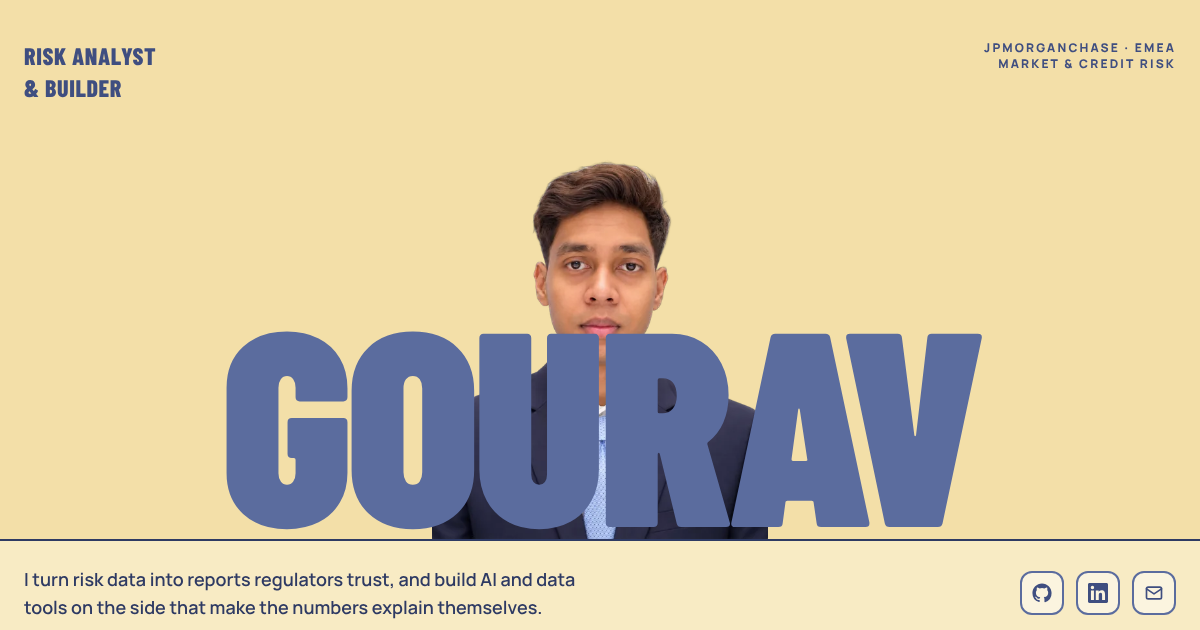
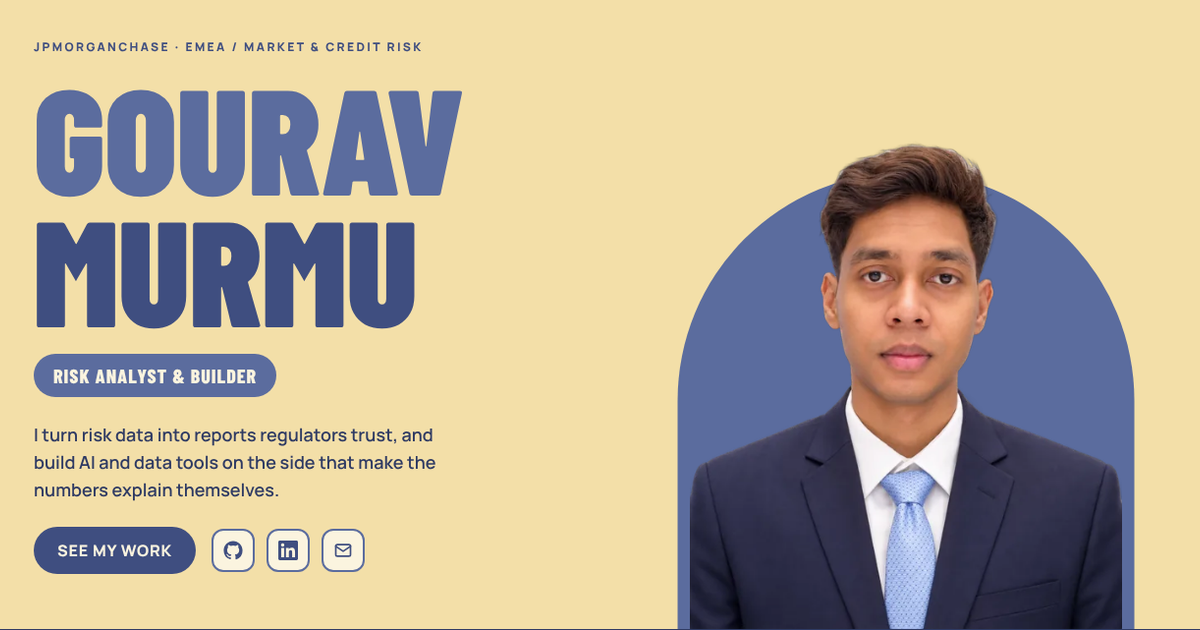
Redesign hero: name on the left, larger portrait on the right
The name no longer overlaps the portrait. Adds a See my work button
and regenerates the OG image from the new hero.

Claude-Session: https://claude.ai/code/session_013AXjLynCqWsVWZB5DGkGwg

diff --git a/components/Hero.tsx b/components/Hero.tsx
@@ -4,24 +4,33 @@ import Socials from "./Socials";
 export default function Hero() {
   return (
     <section id="top" className="relative overflow-hidden bg-cream">
-      <div className="mx-auto max-w-site px-4 pt-6 sm:px-6 md:pt-10">
-        <div className="flex flex-col justify-between gap-2 text-blue-deep sm:flex-row sm:items-start">
-          <p className="font-display text-xl font-extrabold uppercase leading-none tracking-wide sm:text-2xl">
-            Risk Analyst
-            <br />& Builder
+      <div className="mx-auto grid max-w-site items-end gap-6 px-4 pt-8 sm:px-6 md:grid-cols-[1.15fr_1fr] md:gap-4 md:pt-12">
+        <div className="pb-2 md:pb-14">
+          <p className="text-xs font-extrabold uppercase tracking-[0.2em] text-blue-deep">{site.employerLine}</p>
+          <h1 className="mt-4 font-display font-black uppercase leading-poster tracking-tight text-blue">
+            <span className="block text-[26vw] md:text-[11.5vw] xl:text-[9.5rem]">Gourav</span>
+            <span className="block text-[26vw] text-blue-deep md:text-[11.5vw] xl:text-[9.5rem]">Murmu</span>
+          </h1>
+          <p className="mt-5 inline-block rounded-full bg-blue px-5 py-2 font-display text-lg font-extrabold uppercase tracking-wider text-paper md:text-xl">
+            {site.role}
           </p>
-          <p className="text-xs font-extrabold uppercase tracking-[0.18em] sm:text-right">
-            JPMorganChase · EMEA
-            <br />
-            Market & Credit Risk
-          </p>
+          <p className="mt-6 max-w-md text-base font-semibold text-ink md:text-lg">{site.pitch}</p>
+          <div className="mt-6 flex flex-wrap items-center gap-4">
+            <a
+              href="#work"
+              className="rounded-full bg-blue-deep px-6 py-3 font-extrabold uppercase tracking-wider text-paper hover:bg-ink"
+            >
+              See my work
+            </a>
+            <Socials />
+          </div>
         </div>
 
-        <div className="relative flex justify-center pt-[30vw] sm:pt-[min(16vw,220px)]">
-          <h1 className="relative z-10 select-none text-center font-display text-[27vw] font-black sm:text-[23vw] uppercase leading-poster tracking-tight text-blue xl:text-[17rem]">
-            Gourav
-            <span className="sr-only"> Murmu, {site.role}</span>
-          </h1>
+        <div className="relative mx-auto flex w-full max-w-[460px] justify-center self-end md:max-w-none">
+          <div
+            className="absolute bottom-0 left-1/2 aspect-square w-[88%] -translate-x-1/2 rounded-t-full bg-blue"
+            aria-hidden
+          />
           <picture>
             <source srcSet="/images/gourav-cutout.webp 1x, /images/gourav-cutout@2x.webp 2x" type="image/webp" />
             {/* eslint-disable-next-line @next/next/no-img-element */}
@@ -31,18 +40,13 @@ export default function Hero() {
               width={520}
               height={665}
               fetchPriority="high"
-              className="pointer-events-none absolute bottom-0 left-1/2 z-0 w-[44vw] max-w-[380px] -translate-x-1/2 sm:w-[28vw]"
+              className="relative block w-[86%] max-w-[440px] md:w-full"
+              style={{ marginInline: "auto" }}
             />
           </picture>
         </div>
       </div>
-
-      <div className="relative border-t-2 border-ink bg-cream-2">
-        <div className="mx-auto flex max-w-site flex-col gap-5 px-4 py-6 sm:px-6 md:flex-row md:items-center md:justify-between">
-          <p className="max-w-xl text-base font-semibold text-ink md:text-lg">{site.pitch}</p>
-          <Socials />
-        </div>
-      </div>
+      <div className="h-0.5 bg-ink" aria-hidden />
     </section>
   );
 }
